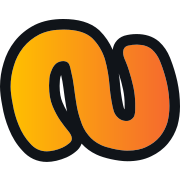
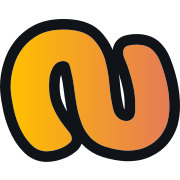
fix: refinements

Changed region(s): [[0.6111, 0.25, 0.9444, 0.8333]]

diff --git a/src/styles/tokens/semantic.css b/src/styles/tokens/semantic.css
@@ -7,23 +7,22 @@
   --color-surface-1: light-dark(var(--p-neutral-1), var(--p-neutral-4));
   --color-surface-2: light-dark(var(--p-neutral-2), var(--p-neutral-3));
 
-  --color-accent: light-dark(var(--p-orange-2), var(--p-yellow-0));
-  --color-link: light-dark(var(--p-orange-2), var(--p-orange-1));
+  --color-accent: light-dark(var(--p-warm-2), var(--p-warm-0));
+  --color-link: light-dark(var(--p-warm-2), var(--p-warm-0));
   --color-title: var(--color-text-0);
-  --color-heading: var(--p-yellow-0);
-  --color-button: light-dark(var(--p-orange-2), var(--p-orange-1));
-  --color-glyph: light-dark(var(--p-orange-2), var(--p-yellow-0));
+  --color-heading: var(--p-warm-0);
+  --color-button: light-dark(var(--p-warm-2), var(--p-warm-0));
+  --color-glyph: light-dark(var(--p-warm-2), var(--p-warm-0));
   --color-interactive: var(--color-glyph);
   --color-divider: var(--color-surface-2);
-  --color-canvas: light-dark(var(--p-orange-2), var(--p-yellow-0));
-  --color-glow: hsl(from var(--color-accent) h s l / var(--opacity-background-glow));
+  --color-canvas: light-dark(var(--p-warm-2), var(--p-warm-0));
 
-  --color-code-inline: light-dark(var(--p-orange-2), var(--p-yellow-0));
+  --color-code-inline: light-dark(var(--p-warm-3), var(--p-warm-0));
   --color-code-default: var(--p-neutral-0);
   --color-code-muted: var(--p-neutral-2);
-  --color-code-primary: var(--p-yellow-0);
-  --color-code-secondary: var(--p-green-0);
-  --color-code-tertiary: var(--p-orange-0);
+  --color-code-primary: var(--p-green-0);
+  --color-code-secondary: var(--p-warm-1);
+  --color-code-tertiary: var(--p-warm-2);
   --color-code-bg: var(--p-neutral-4);
 
   /** FONT-FAMILIES */
@@ -62,11 +61,6 @@
   --layout-width: min(100%, calc(var(--p-bp-5) - 2 * var(--space-layout)));
   --layout-main-content: var(--p-bp-3);
   --layout-article: var(--p-bp-3);
-
-  /** BOX-SHADOW */
-  --shadow-y: 0px;
-  --shadow-blur: var(--p-size-3);
-  --shadow-default: 0 var(--shadow-y) var(--shadow-blur) var(--color-glow);
 
   /** BORDER-RADIUS */
   --radius-small: var(--p-radius-1);

diff --git a/src/styles/tokens/primitives.css b/src/styles/tokens/primitives.css
@@ -8,13 +8,13 @@
   --p-neutral-5: hsl(220, 6%, 8%);
 
   /** BRAND COLORS */
-  --p-orange-0: #f2bf9d;
-  --p-orange-1: #dc9e7a;
-  --p-orange-2: #f56a2e;
   --p-green-0: #55e3be;
   --p-green-1: #25ac89;
   --p-green-2: #1c756a;
-  --p-yellow-0: #ffbf00;
+  --p-warm-0: #f3ad43;
+  --p-warm-1: #c0a572;
+  --p-warm-2: #e67b55;
+  --p-warm-3: #d54152;
 
   /** BREAKPOINTS (1.33 scale) */
   --p-bp-scale: 1.33;

diff --git a/src/styles/components/specific/blog/showcase.css b/src/styles/components/specific/blog/showcase.css
@@ -2,7 +2,6 @@
 .showcase--mobile {
   --showcase-height: 200px; /* decorative fixed preview height */
   --showcase-gap: 0.5rem;
-  --showcase-elevation: var(--shadow-default);
 
   display: grid;
   width: 100%;
@@ -20,7 +19,6 @@
 .showcase > *,
 .showcase--mobile > * {
   background: var(--color-surface-2);
-  box-shadow: var(--showcase-elevation);
   width: 100%;
   height: 100%;
 }

diff --git a/src/styles/components/primitives/button.css b/src/styles/components/primitives/button.css
@@ -13,7 +13,7 @@
   text-align: center;
   font-weight: var(--fw-bold);
   color: var(--button-text);
-  border-bottom: var(--bw-effect) solid var(--color-button);
+  border-bottom: var(--bw-effect) solid hsl(from var(--color-link) h s l / var(--opacity-effect));
 
   padding-block: var(--button-padding);
   transition: all var(--duration-0);

diff --git a/src/styles/components/specific/blog/dock-hover.css b/src/styles/components/specific/blog/dock-hover.css
@@ -18,7 +18,6 @@
   height: var(--dock-hover-item-height);
   border-radius: var(--radius-small);
   background-color: var(--dock-hover-bar-color);
-  box-shadow: var(--shadow-default);
   transition: transform var(--duration-2);
 }
 

diff --git a/src/styles/components/containers/card.css b/src/styles/components/containers/card.css
@@ -6,7 +6,6 @@
   background-color: var(--card-bg);
   padding: var(--card-padding);
   position: relative;
-  box-shadow: var(--shadow-default);
   width: 100%;
   max-width: var(--card-width, var(--layout-main-content));
 

diff --git a/src/styles/components/specific/article.css b/src/styles/components/specific/article.css
@@ -112,7 +112,6 @@ article {
     transform: translateX(-50%);
     width: 100vw;
     max-width: var(--article-full-bleed-width);
-    box-shadow: var(--shadow-default);
   }
 
   /** code + codeblocks */
